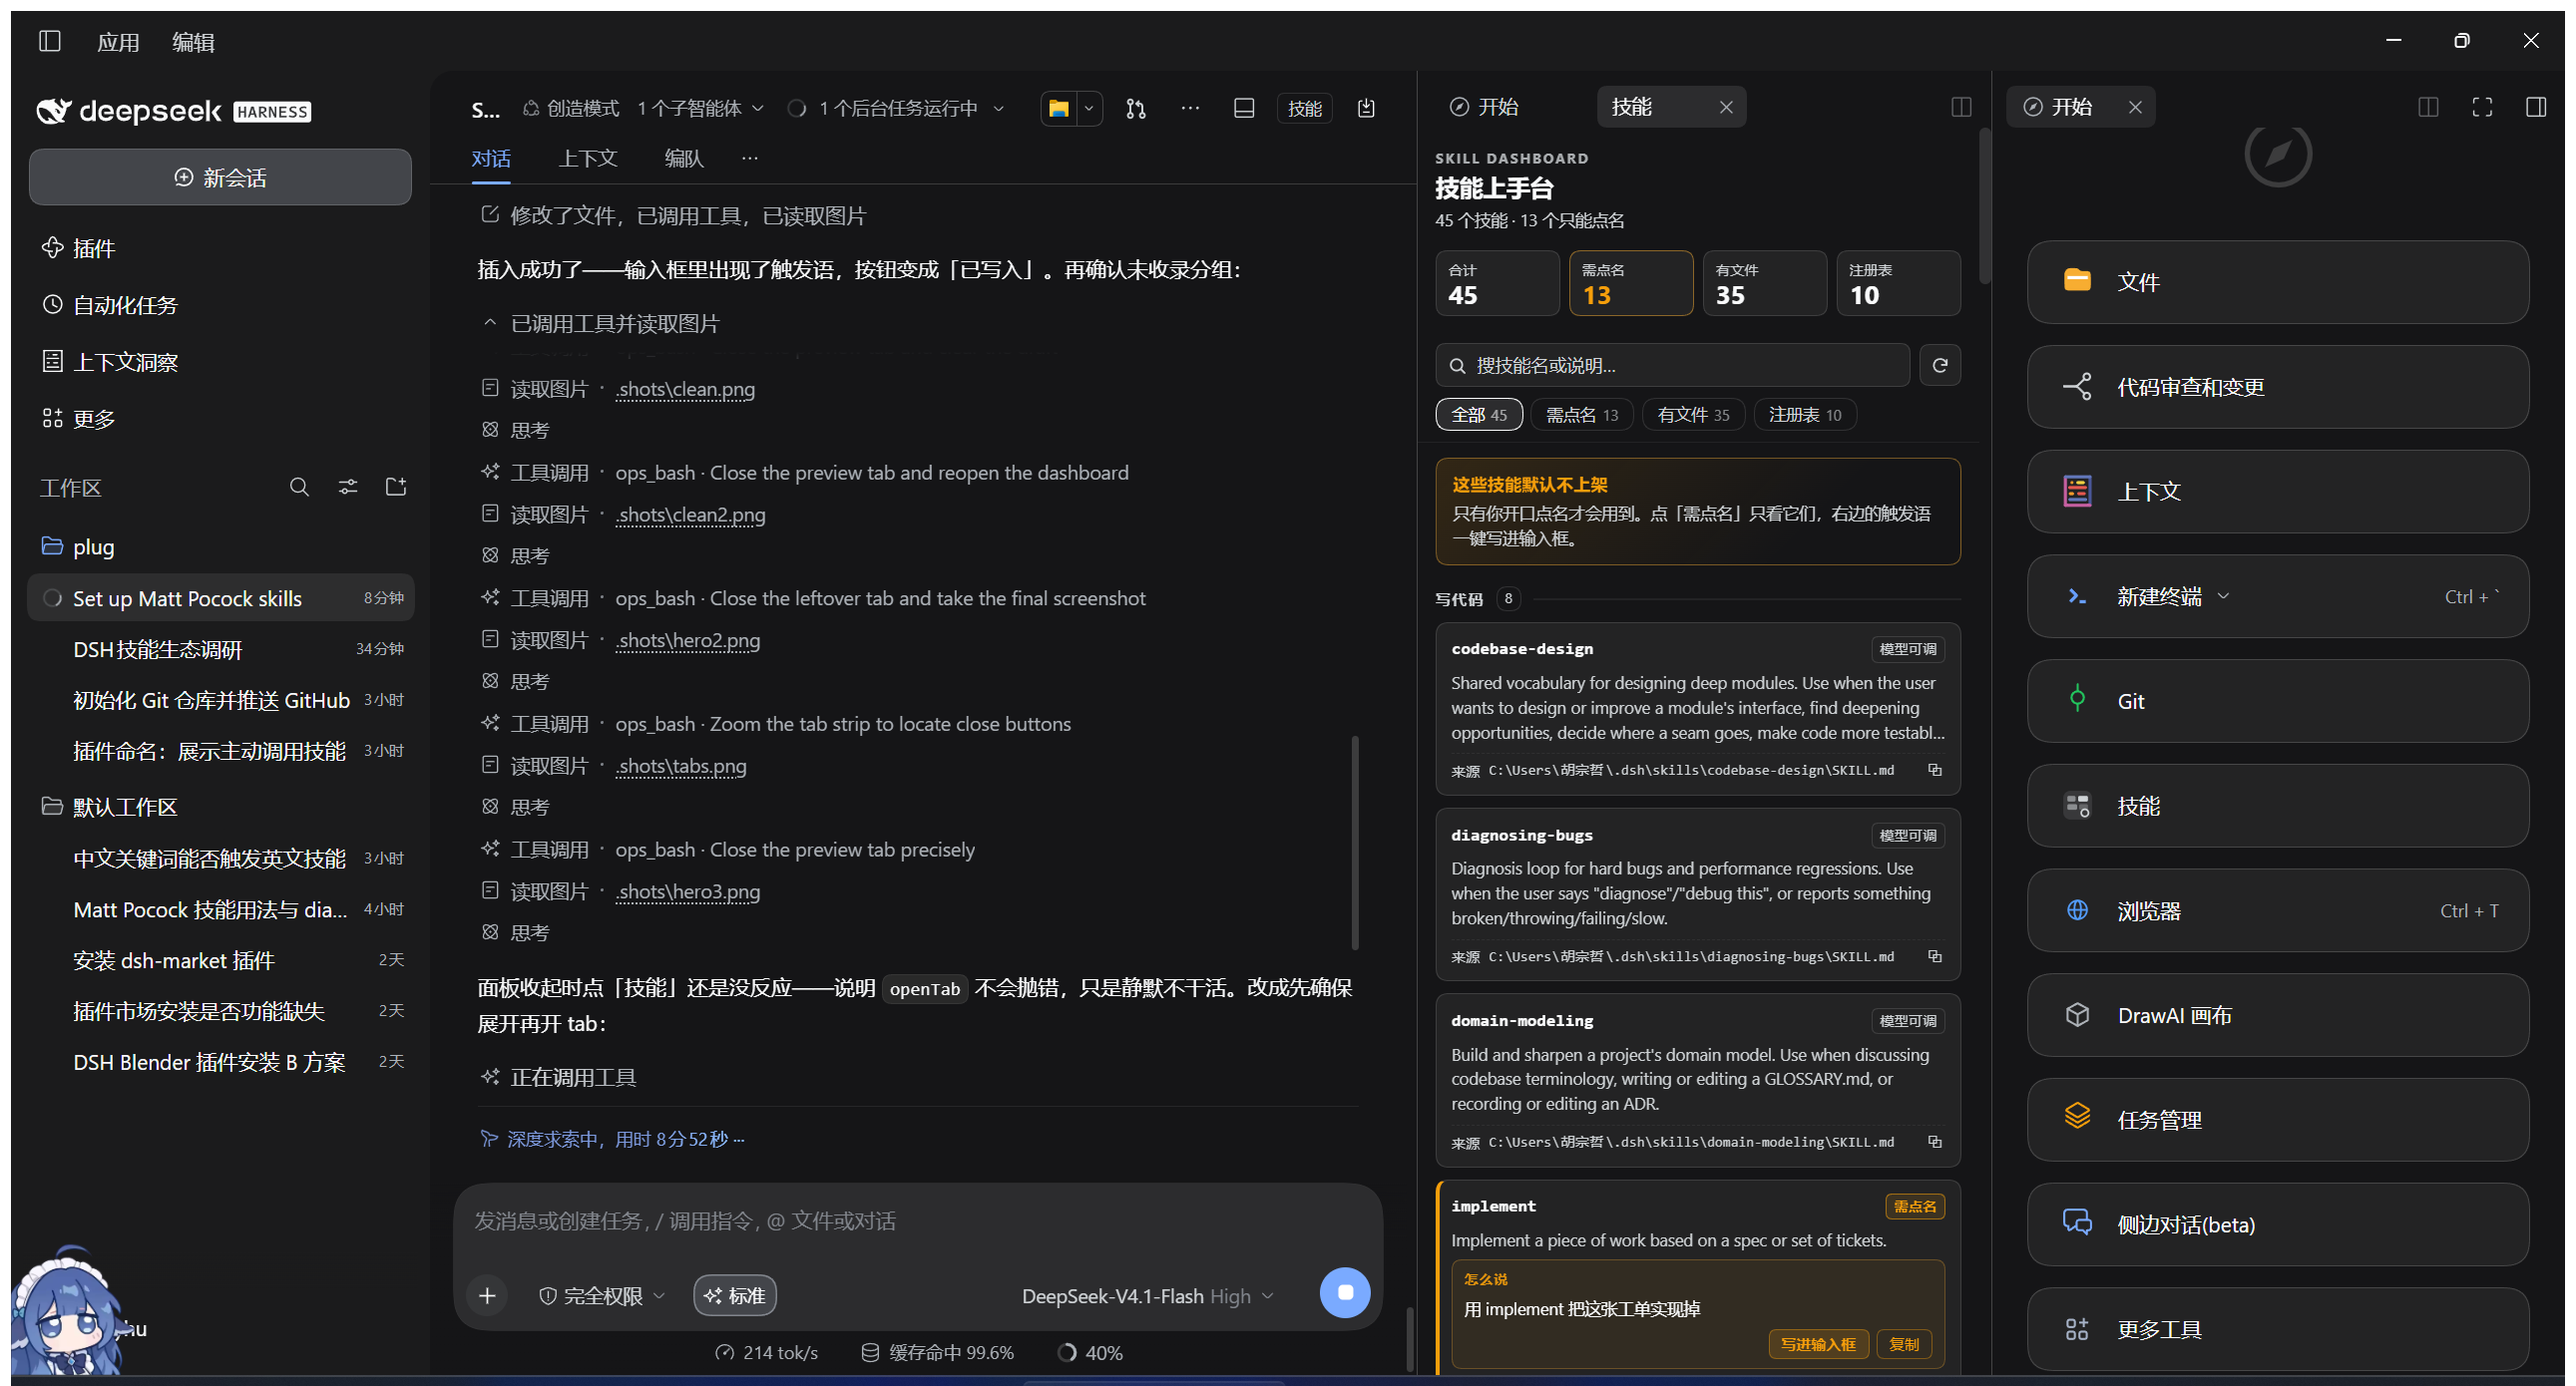
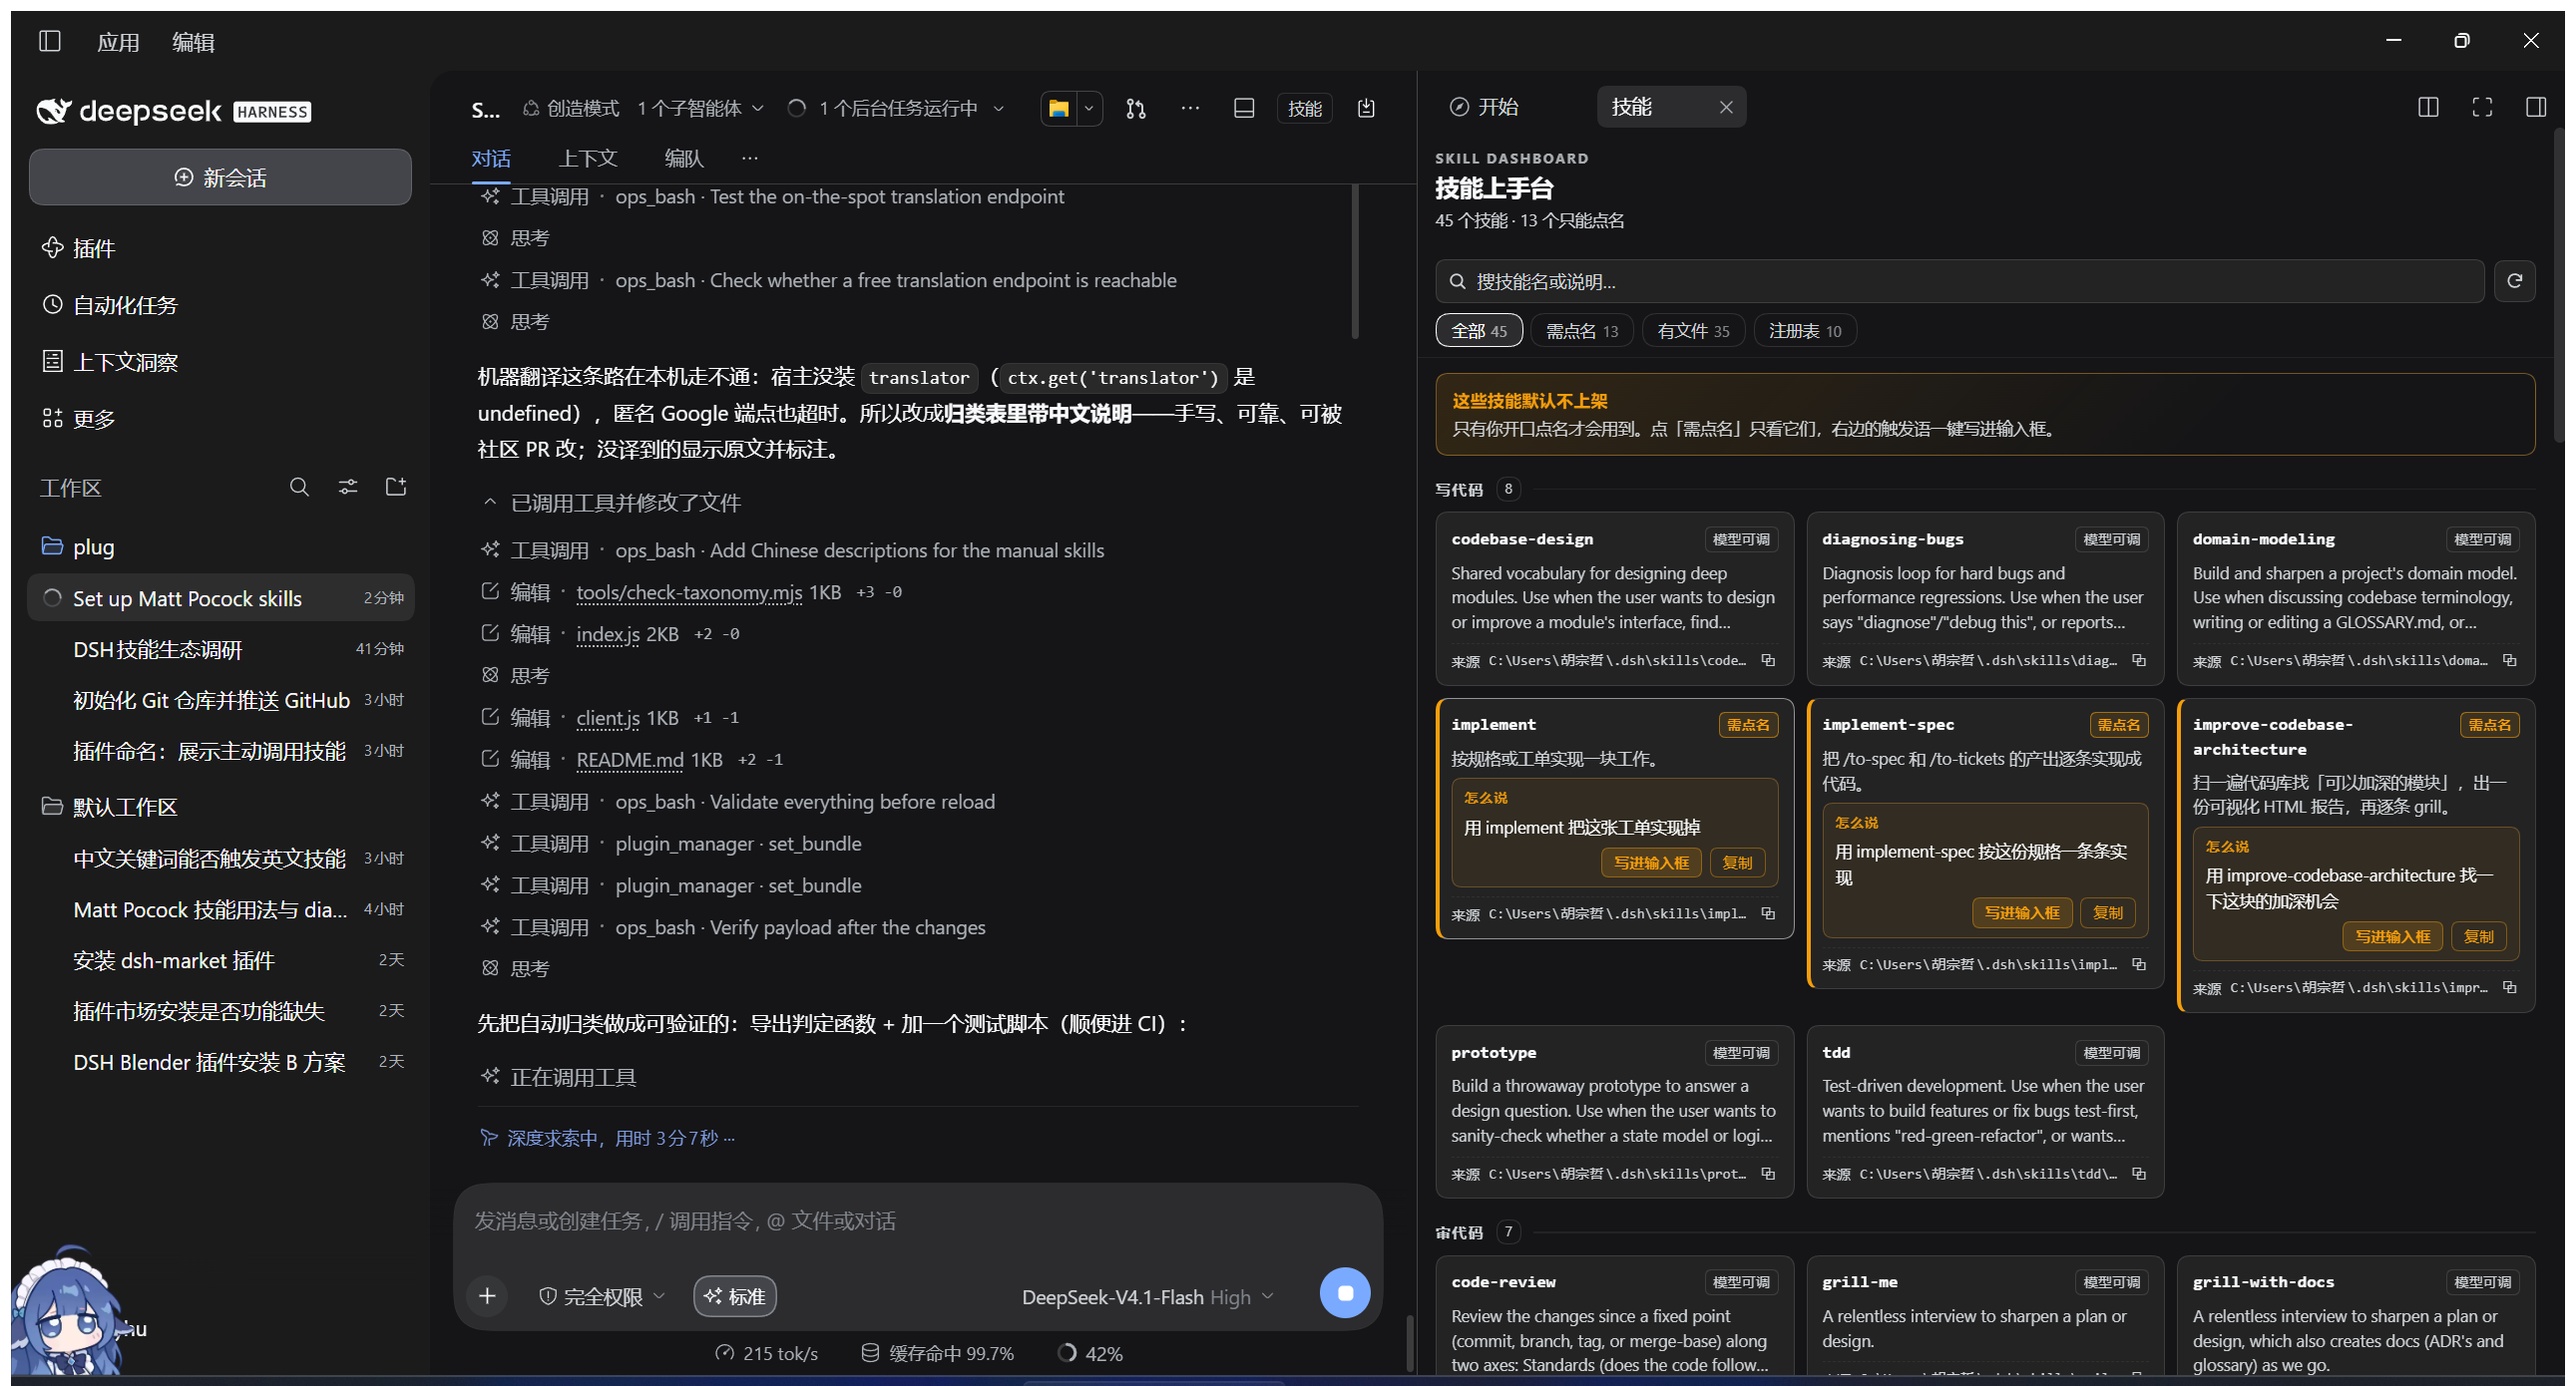
feat: 自动归类 + 手动型中文说明 + 去掉重复统计
- 未收录进 taxonomy 的技能按名字/说明自动归到处境，卡片标「自动归类」，一个词都匹配不上才进「其他」
- 手动型技能的中文说明写进 taxonomy.json 的 zh 字段（13 条），中文界面直接渲染中文，原文留在 title
- /api/skill-dash/zh：宿主装了 translator 时可现场机翻并缓存；本机未装该服务，返回空并优雅降级
- 去掉头部四个统计块（合计/需点名/有文件/注册表），计数只留在筛选胶囊上
- tools/check-inference.mjs + CI 增加 9 条归类判定用例

diff --git a/index.js b/index.js
@@ -22,7 +22,65 @@ export const name = 'dsh-skill-dashboard'
 export const inject = ['webServer']
 
 const ROUTE_PATH = '/api/skill-dash/data'
+const ZH_PATH = '/api/skill-dash/zh'
 const TAXONOMY_URL = new URL('./taxonomy.json', import.meta.url)
+
+// Situation inference for skills that `taxonomy.json` does not list — a user who
+// installs their own skills still gets them sorted. Order = first strong match
+// wins; otherwise the most keyword hits above a threshold decides.
+const STRONG_RULES = [
+  [/pptx|docx|xlsx|spreadsheet|幻灯片|表格/i, 'docs'],
+  [/blender|drawai|diagram|canvas|文字成片|视频/i, 'design'],
+  [/\btdd\b|单元测试/i, 'code'],
+  [/cordis|harness|sandbox|沙箱/i, 'harness'],
+]
+
+const SITUATION_RULES = [
+  { id: 'docs', re: /(office|pdf|readme|handoff|spec\b|ticket|questionnaire|document|report|文档|工单|规格|报告)/gi },
+  { id: 'design', re: /(diagram|chart|draw|video|motion|render|image|svg|图|画布|建模|出图)/gi },
+  { id: 'review', re: /(review|audit|critique|triage|lint|grill|审查|评审|复盘|把关)/gi },
+  { id: 'research', re: /(research|investigate|survey|literature|search|调研|检索|查证)/gi },
+  { id: 'learn', re: /(teach|learn|tutorial|explain|course|学习|教程|讲解)/gi },
+  { id: 'harness', re: /(plugin|cordis|harness|sandbox|preset|hook|config|插件|配置)/gi },
+  { id: 'code', re: /(code|bug|debug|refactor|test|implement|build|compile|patch|feature|代码|重构|测试|实现|修复)/gi },
+]
+
+export function inferSituation(name, description) {
+  const text = `${name} ${description}`
+  for (const [re, id] of STRONG_RULES) if (re.test(text)) return id
+  let best = null
+  for (const rule of SITUATION_RULES) {
+    const hits = (text.match(rule.re) || []).length
+    if (hits > 0 && (best === null || hits > best.hits)) best = { id: rule.id, hits }
+  }
+  return best !== null && best.hits >= 1 ? best.id : null
+}
+
+function labelWithTaxonomy(items, taxonomy) {
+  const byName = taxonomy.skills ?? {}
+  return items.map((item) => {
+    const entry = byName[item.name] ?? null
+    if (entry !== null) {
+      return {
+        ...item,
+        situation: entry.situation,
+        situationSource: 'taxonomy',
+        trigger: typeof entry.trigger === 'string' ? entry.trigger : '',
+        zh: typeof entry.zh === 'string' ? entry.zh : '',
+        repo: typeof entry.repo === 'string' ? entry.repo : '',
+      }
+    }
+    const inferred = inferSituation(item.name, item.description)
+    return {
+      ...item,
+      situation: inferred ?? 'other',
+      situationSource: inferred === null ? 'unmapped' : 'heuristic',
+      trigger: '',
+      zh: '',
+      repo: '',
+    }
+  })
+}
 
 const FALLBACK_TAXONOMY = {
   version: 0,
@@ -90,19 +148,6 @@ function fromSummary(summary) {
     modelInvocable: invocation.modelInvocable !== false,
     userInvocable: invocation.userInvocable !== false,
   }
-}
-
-function labelWithTaxonomy(items, taxonomy) {
-  const byName = taxonomy.skills ?? {}
-  return items.map((item) => {
-    const entry = byName[item.name] ?? null
-    return {
-      ...item,
-      situation: entry?.situation ?? 'other',
-      trigger: typeof entry?.trigger === 'string' ? entry.trigger : '',
-      repo: typeof entry?.repo === 'string' ? entry.repo : '',
-    }
-  })
 }
 
 export function apply(ctx) {
@@ -209,6 +254,84 @@ export function apply(ctx) {
       kind: 'exact',
       path: ROUTE_PATH,
       resource: async (request) => handle(request),
+    }),
+  )
+
+  // On-the-spot Chinese for the manual-only skills. They are the ones a user
+  // must name, so their description is the thing that has to be readable.
+  // Anonymous providers (google/bing) need no session and no key.
+  const zhCache = new Map()
+
+  const handleZh = async (request) => {
+    const url = new URL(request.url)
+    const signal = request?.signal
+    const translator = ctx.get('translator')
+    if (translator === undefined) return json({ ok: true, zh: {}, skipped: 'translator unavailable' })
+
+    let providers
+    try {
+      providers = await translator.availableProviders(signal)
+    } catch (error) {
+      return json({ ok: true, zh: {}, skipped: String(error?.message ?? error) })
+    }
+    if (!Array.isArray(providers) || providers.length === 0) {
+      return json({ ok: true, zh: {}, skipped: 'no translation provider' })
+    }
+
+    const sessionId = url.searchParams.get('session') || currentSessionId()
+    const free = providers.find((provider) => provider === 'bing' || provider === 'google')
+    const provider = free ?? providers[0]
+    const needsSession = free === undefined
+
+    let result
+    try {
+      result = await readCatalog(url, signal)
+    } catch (error) {
+      return json({ ok: false, zh: {}, error: String(error?.message ?? error) }, 500)
+    }
+
+    const targets = (result.items ?? []).filter((item) => item.modelInvocable === false && item.description)
+    const out = {}
+    let skipped = ''
+    const deadline = Date.now() + 7000
+
+    for (const item of targets) {
+      const text = String(item.description).slice(0, 400)
+      if (zhCache.has(text)) {
+        out[item.name] = zhCache.get(text)
+        continue
+      }
+      if (Date.now() > deadline) {
+        skipped = 'time budget'
+        break
+      }
+      try {
+        const spec = translator.resolve({
+          text,
+          targetLanguage: 'zh-CN',
+          sourceLanguage: 'en',
+          provider,
+          ...(needsSession && sessionId ? { sessionId } : {}),
+        })
+        const translated = await translator.translate(spec, signal)
+        if (typeof translated === 'string' && translated.trim() !== '') {
+          zhCache.set(text, translated)
+          out[item.name] = translated
+        }
+      } catch (error) {
+        skipped = String(error?.message ?? error)
+        break
+      }
+    }
+
+    return json({ ok: true, zh: out, skipped })
+  }
+
+  ctx.effect(() =>
+    server.register({
+      kind: 'exact',
+      path: ZH_PATH,
+      resource: async (request) => handleZh(request),
     }),
   )
 }

diff --git a/client.js b/client.js
@@ -7,6 +7,7 @@ window.__ModuleLoader__.load({
     const TAB_ID = 'dsh-skill-dashboard'
     const TAB_KIND = 'skill-dashboard'
     const ROUTE = '/api/skill-dash/data'
+    const ZH_ROUTE = '/api/skill-dash/zh'
     const FALLBACK_SITUATIONS = [{ id: 'other', title: '其他', order: 999 }]
 
     // ------------------------------------------------------------------ i18n
@@ -41,6 +42,7 @@ window.__ModuleLoader__.load({
           subtitle: (total, manual) => `${total} 个技能 · ${manual} 个只能点名`,
           stale: '刷新失败，显示的是上次结果',
           unmapped: '没收录进 taxonomy，先归到「其他」——欢迎去仓库提 PR 把它归位。',
+          auto: '自动归类',
           origin: '来源',
           registryOrigin: '运行时注册，没有文件',
           copyOrigin: '复制来源',
@@ -76,6 +78,7 @@ window.__ModuleLoader__.load({
           subtitle: (total, manual) => `${total} skills · ${manual} name-only`,
           stale: 'Refresh failed, showing the last result',
           unmapped: 'Not in taxonomy yet, shown under Other — a PR is welcome.',
+          auto: 'auto',
           origin: 'Origin',
           registryOrigin: 'Registered at runtime, no file',
           copyOrigin: 'Copy origin',
@@ -339,6 +342,25 @@ window.__ModuleLoader__.load({
       const [mode, setMode] = React.useState('all')
       const [feedback, setFeedback] = React.useState({ name: '', kind: '' })
       const [tick, setTick] = React.useState(0)
+      const [zh, setZh] = React.useState({})
+
+      React.useEffect(() => {
+        let alive = true
+        const controller = typeof AbortController === 'function' ? new AbortController() : null
+        const url = sessionId ? ZH_ROUTE + '?session=' + encodeURIComponent(sessionId) : ZH_ROUTE
+        fetch(url, controller ? { signal: controller.signal } : undefined)
+          .then((response) => response.json())
+          .then((payload) => {
+            if (alive && payload && payload.ok === true && payload.zh) setZh(payload.zh)
+          })
+          .catch(() => {
+            /* no translation: the cards keep the original description */
+          })
+        return () => {
+          alive = false
+          if (controller) controller.abort()
+        }
+      }, [sessionId])
 
       React.useEffect(() => {
         let alive = true
@@ -460,14 +482,17 @@ window.__ModuleLoader__.load({
         const origin = originFor(skill)
         const busy = feedback.name === skill.name
         const originBusy = feedback.name === skill.name + '#origin'
+        const translated = ZH ? zh[skill.name] || skill.zh || '' : ''
+        const description = translated || skill.description
         return h('div', { className: 'sd-card' + (manual ? ' is-manual' : ''), key: skill.name },
           h('div', { className: 'sd-card-top' },
             h('code', { className: 'sd-name' }, skill.name),
             h('div', { className: 'sd-badges' },
               manual ? h('span', { className: 'sd-badge is-manual' }, T.badgeManual) : h('span', { className: 'sd-badge' }, T.badgeAuto),
+              skill.situationSource === 'heuristic' ? h('span', { className: 'sd-badge' }, T.auto) : null,
             ),
           ),
-          skill.description ? h('p', { className: 'sd-desc' }, skill.description) : null,
+          description ? h('p', { className: 'sd-desc', title: translated ? skill.description : undefined }, description) : null,
           manual
             ? h('div', { className: 'sd-trigger' },
                 h('div', { className: 'sd-trigger-label' }, T.howto),
@@ -505,24 +530,6 @@ window.__ModuleLoader__.load({
           h('div', { className: 'sd-eyebrow' }, T.eyebrow),
           h('div', { className: 'sd-title' }, T.title),
           h('div', { className: 'sd-sub' }, T.subtitle(counts.total, counts.manual)),
-          h('div', { className: 'sd-stats' },
-            h('div', { className: 'sd-stat' },
-              h('div', { className: 'sd-stat-label' }, T.total),
-              h('div', { className: 'sd-stat-value' }, String(counts.total)),
-            ),
-            h('div', { className: 'sd-stat is-manual' },
-              h('div', { className: 'sd-stat-label' }, T.manual),
-              h('div', { className: 'sd-stat-value' }, String(counts.manual)),
-            ),
-            h('div', { className: 'sd-stat' },
-              h('div', { className: 'sd-stat-label' }, T.files),
-              h('div', { className: 'sd-stat-value' }, String(counts.files)),
-            ),
-            h('div', { className: 'sd-stat' },
-              h('div', { className: 'sd-stat-label' }, T.registry),
-              h('div', { className: 'sd-stat-value' }, String(counts.registry)),
-            ),
-          ),
         ),
 
         h('div', { className: 'sd-sticky' },

diff --git a/README.md b/README.md
@@ -51,8 +51,9 @@ Grouping and trigger phrases live in [`taxonomy.json`](taxonomy.json) — plain 
 }
 ```
 
-- A skill that is not listed still appears, under **其他 / Other**.
+- A skill that is not listed still appears, sorted by an inference over its name and description (marked `auto`), or under **其他 / Other** when nothing matches.
 - `trigger` is optional; when absent the sentence is generated from the skill's own description.
+- `zh` is optional: the Chinese description shown instead of the English one.
 - `repo` is optional; it turns the origin line into a copyable repository URL.
 - `node tools/check-taxonomy.mjs` validates the file (CI runs it too).
 
